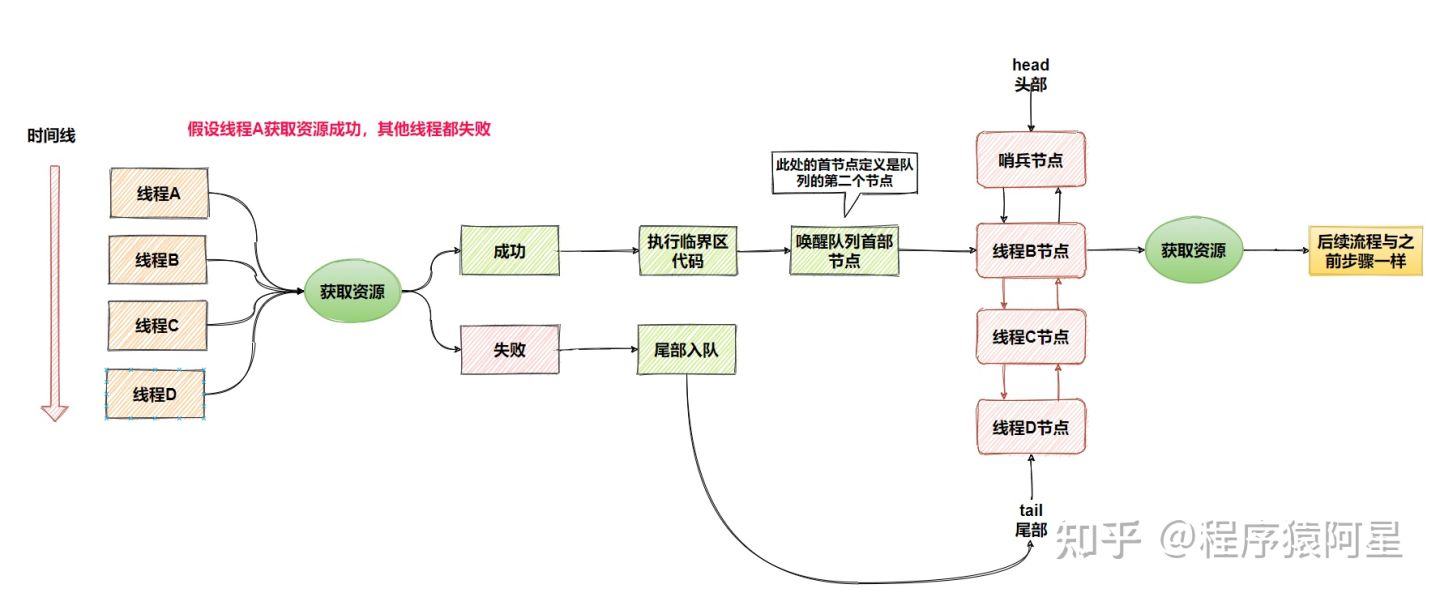
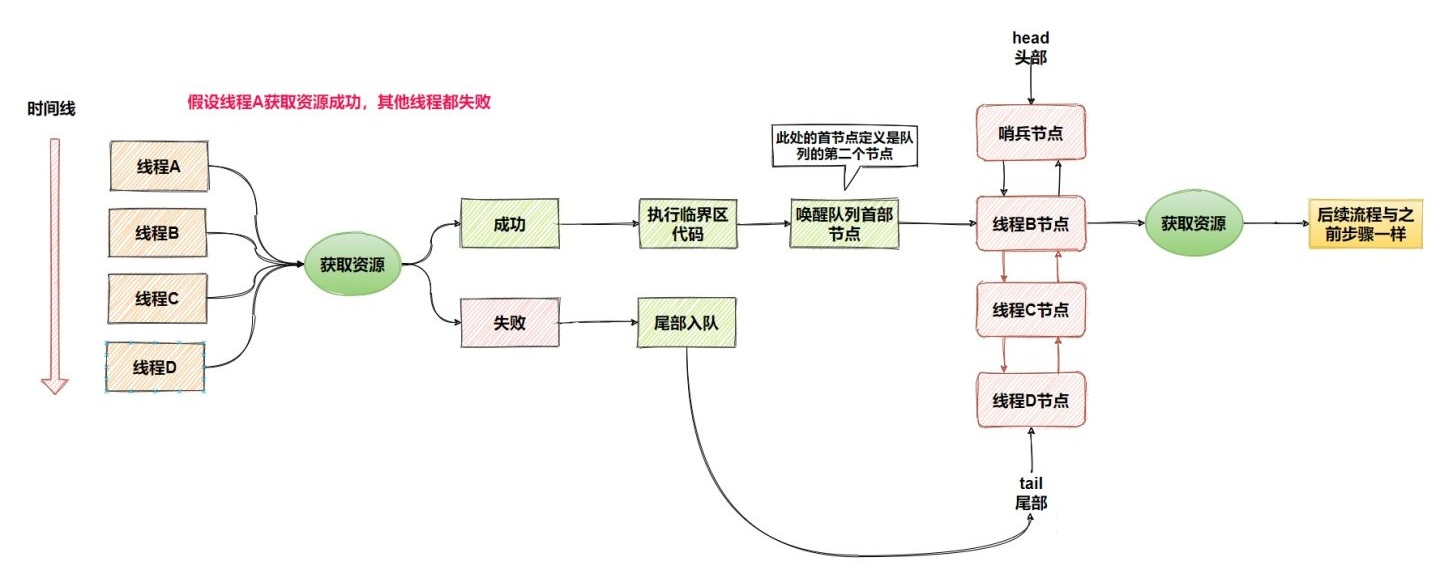
Fix images

diff --git a/docs/java/thread.md b/docs/java/thread.md
@@ -77,11 +77,11 @@ public ThreadPoolExecutor(int corePoolSize,
 2. 阻塞队列已满
 3. 正在运行的线程数量小于最大线程数
 
-![process](../images/java_thread_threadpoolexecutor_flow.webp)
+![process](../images/java_thread_threadpoolexecutor_flow.png)
 
 常用线程安全的队列：
 
-![queue](../images/java_thread_threadpoolexecutor_queues.webp)
+![queue](../images/java_thread_threadpoolexecutor_queues.png)
 
 ### ScheduledThreadPoolExecutor
 
